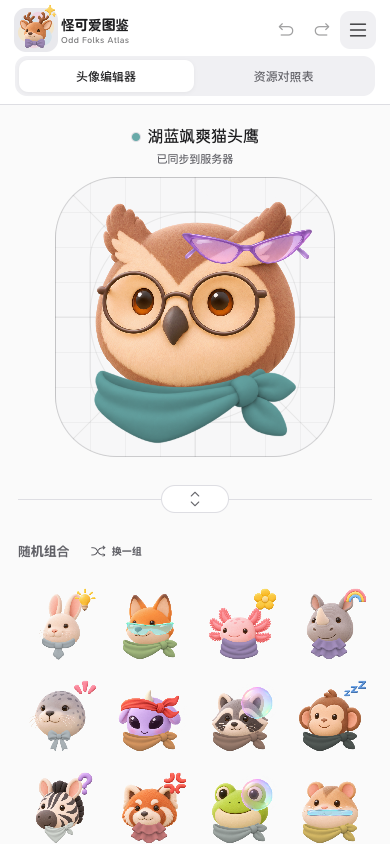
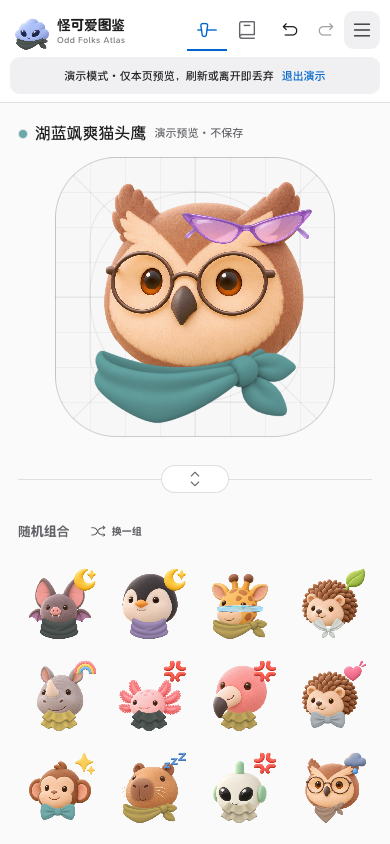
Port compact inspector and responsive workspace layout

diff --git a/dist/editor-compact.js b/dist/editor-compact.js
@@ -1,0 +1,77 @@
+/* Compact presentation only. The original controls own history, validation and saves. */
+(()=>{
+'use strict';
+const $=id=>document.getElementById(id),choices=new Map();let ready=false,refreshing=false;
+function refresh(){
+ if(!ready||refreshing)return;refreshing=true;
+ for(const [select,entry]of choices){
+  const options=[...select.options],signature=options.map(o=>o.value+'\0'+o.textContent+'\0'+o.disabled).join('\n');
+  if(entry.signature!==signature){entry.signature=signature;entry.grid.replaceChildren();for(const option of options){const b=document.createElement('button');b.type='button';b.dataset.choice=option.value;b.dataset.avatarSound='select';b.textContent=option.textContent.replace(/^([A-Z]\d+) /,'').replace(/ · 待调位$/,'').split(' · ')[0];b.title=option.textContent;b.setAttribute('aria-label',option.textContent);b.onclick=()=>{select.value=option.value;select.dispatchEvent(new Event('change',{bubbles:true}));refresh()};entry.grid.append(b)}}
+  const buttons=[...entry.grid.children],selected=buttons.findIndex(b=>b.dataset.choice===select.value),visible=new Set(buttons.slice(0,entry.limit).map(b=>b.dataset.choice));if(selected>=entry.limit){visible.delete(buttons[entry.limit-1]?.dataset.choice);visible.add(select.value)}
+  buttons.forEach((b,index)=>{b.disabled=select.disabled||options[index].disabled;b.setAttribute('aria-pressed',String(b.dataset.choice===select.value));b.hidden=!entry.expanded&&!visible.has(b.dataset.choice)});
+  entry.more.hidden=buttons.length<=entry.limit;entry.more.textContent=entry.expanded?'收起':'全部 '+buttons.length;entry.more.setAttribute('aria-expanded',String(entry.expanded));
+ }
+ refreshing=false;
+}
+function buttonsFor(id,{limit=Infinity,tab=false}={}){
+ const select=$(id);if(!select||choices.has(select))return;const label=select.closest('label'),group=document.createElement('div');group.className='compact-choice-field';group.dataset.select=id;
+ const caption=document.createElement('div');caption.className='compact-choice-caption';const text=document.createElement('span');text.id=id+'ChoicesLabel';text.textContent=label.firstChild?.textContent?.trim()||select.getAttribute('aria-label')||'选择';caption.append(text);
+ const grid=document.createElement('div');grid.className='compact-choices'+(tab?' compact-event-tabs':'');grid.setAttribute('role','group');grid.setAttribute('aria-labelledby',text.id);grid.id=id+'Choices';
+ const more=document.createElement('button');more.className='compact-more';more.type='button';more.setAttribute('aria-controls',grid.id);const entry={grid,more,limit,expanded:false,signature:null};more.onclick=()=>{entry.expanded=!entry.expanded;refresh()};caption.append(more);group.append(caption,grid);
+ label.classList.add('compact-native-choice');label.after(group);if(label.dataset.inspectorLayer)group.dataset.inspectorLayer=label.dataset.inspectorLayer;
+ choices.set(select,entry);new MutationObserver(refresh).observe(select,{childList:true,subtree:true,characterData:true,attributes:true,attributeFilter:['disabled']});
+}
+function stagePreview(host){
+ const stage=$('stageCapture');host.classList.add('compact-stage-preview');host.removeAttribute('role');host.removeAttribute('tabindex');host.setAttribute('aria-hidden','true');stage.append(host);
+ new MutationObserver(()=>{const active=host.hasAttribute('data-motion-event');if(active){for(const other of stage.querySelectorAll('.compact-stage-preview'))if(other!==host)AvatarMotion.stop(other)}stage.classList.toggle('compact-preview-playing',[...stage.querySelectorAll('.compact-stage-preview')].some(p=>p.hasAttribute('data-motion-event')))}).observe(host,{attributes:true,attributeFilter:['data-motion-event']});
+}
+function setup(){
+ if(ready||!window.AvatarInspector||!$('backgroundEvent'))return;ready=true;
+ const panel=$('materialPanel'),body=panel.querySelector('.drawer-body'),tabs=body.querySelector('.tabs');panel.classList.add('compact-inspector');panel.removeAttribute('aria-labelledby');panel.setAttribute('aria-label','编辑图层');
+ const strip=document.createElement('div');strip.className='compact-inspector-tabs';strip.append(tabs,$('panelClose'));panel.prepend(strip);panel.querySelector('.drawer-head').hidden=true;tabs.addEventListener('keydown',event=>{if(!['Home','End'].includes(event.key))return;event.preventDefault();const buttons=[...tabs.querySelectorAll('button[data-layer]')],target=event.key==='Home'?buttons[0]:buttons.at(-1);target.click();target.focus()});
+ const hint=document.createElement('span');hint.id='inspectorGestureHelp';hint.className='sr-only';hint.textContent='滚动到内容边缘后继续向外滑动可收起。也可按 Escape 或使用关闭按钮。';panel.append(hint);panel.setAttribute('aria-describedby',hint.id);
+ for(const id of ['motionPreview','backgroundPreview'])stagePreview($(id));
+ $('stageCapture').addEventListener('pointerdown',()=>{for(const host of $('stageCapture').querySelectorAll('.compact-stage-preview'))AvatarMotion.stop(host)},{capture:true});
+ panel.addEventListener('close',()=>{panel.style.transform='';for(const host of $('stageCapture').querySelectorAll('.compact-stage-preview'))AvatarMotion.stop(host)});
+ const motion=$('motionSection'),advanced=document.createElement('details'),summary=document.createElement('summary');advanced.className='compact-advanced';summary.textContent='时间与更多设置';advanced.append(summary);
+ const styleLabel=$('motionStyle').closest('label'),eventLabel=$('motionEvent').closest('label'),play=motion.querySelector('.motion-actions');
+ motion.insertBefore(styleLabel,play);motion.insertBefore(eventLabel,styleLabel);
+ for(const child of [...motion.children])if(!['motionTitle'].includes(child.id)&&child!==eventLabel&&child!==styleLabel&&child!==play)advanced.append(child);
+ motion.append(advanced);$('motionTitle').classList.add('sr-only');
+ // Keep infrequent numeric/import/export controls, but remove duplicated explanation.
+ motion.querySelectorAll('p.hint').forEach(el=>el.classList.add('sr-only'));
+ const reset=$('resetAsset');advanced.append(reset);delete reset.dataset.inspectorLayer;
+ body.querySelector('.inspector-preview-options summary').textContent='预览与同步设置';
+ for(const id of ['animal','accessory','mood'])buttonsFor(id,{limit:8});
+ for(const id of ['inspectorEmphasis','motionStyle','backgroundEmphasis','previewMode'])buttonsFor(id);
+ for(const id of ['motionEvent','backgroundEvent'])buttonsFor(id,{tab:true});
+ body.addEventListener('change',()=>queueMicrotask(refresh));document.addEventListener('avatar-layer-change',()=>{body.scrollTop=0;refresh()});
+ installSheetGesture(panel,body);const fitStage=()=>{if(panel.open&&matchMedia('(max-width:760px)').matches){const top=$('stageCapture').getBoundingClientRect().top;document.documentElement.style.setProperty('--compact-stage-limit',Math.max(96,panel.getBoundingClientRect().top-top-14)+'px')}};new ResizeObserver(fitStage).observe(panel);window.addEventListener('resize',fitStage);window.AvatarCompactInspector={refresh(){refresh();requestAnimationFrame(fitStage)}};refresh();syncInspectorProperties();
+}
+function installSheetGesture(panel,body){
+ let gesture=null,settle=null,wheelDistance=0,wheelTimer=0,suppressClick=false;
+ const mobile=()=>matchMedia('(max-width:760px)').matches;
+ const reset=()=>{gesture=null;wheelDistance=0;clearTimeout(wheelTimer);settle?.cancel();settle=null;panel.style.transform='';panel.classList.remove('sheet-dragging');};
+ function draw(distance){panel.style.transform=`translateY(${distance}px)`;panel.classList.add('sheet-dragging')}
+ function finish(distance,cancel=false){panel.classList.remove('sheet-dragging');if(!cancel&&Math.abs(distance)>=64){closeInspector(Math.sign(distance));return}if(!distance)return;if(matchMedia('(prefers-reduced-motion:reduce)').matches){panel.style.transform='';return}settle=panel.animate([{transform:`translateY(${distance}px)`},{transform:'translateY(0)'}],{duration:200,easing:'cubic-bezier(.2,.8,.2,1)'});settle.onfinish=()=>{panel.style.transform='';settle=null}}
+ function touchStart(e){if(!mobile()||!panel.open||e.touches.length!==1||e.target.closest('input,select,textarea,[contenteditable="true"]'))return;settle?.cancel();settle=null;panel.style.transform='';const t=e.touches[0];gesture={id:t.identifier,x:t.clientX,y:t.clientY,mode:null,distance:0};}
+ function touchMove(e){if(!gesture)return;if(e.touches.length!==1){finish(gesture.distance,true);gesture=null;return}const t=[...e.touches].find(t=>t.identifier===gesture.id);if(!t)return;const dx=t.clientX-gesture.x,dy=t.clientY-gesture.y;
+  if(!gesture.mode&&Math.abs(dx)>Math.abs(dy)&&Math.abs(dx)>7){gesture=null;return}
+  if(!gesture.mode&&Math.abs(dy)<7)return;
+  const max=Math.max(0,body.scrollHeight-body.clientHeight),atTop=body.scrollTop<=1,atBottom=body.scrollTop>=max-1;
+  if(!gesture.mode){gesture.mode=(dy>0&&atTop)||(dy<0&&atBottom)?'sheet':'scroll';if(gesture.mode==='sheet')gesture.y=t.clientY;}
+  if(gesture.mode==='scroll'){
+   const step=t.clientY-gesture.y;if((step>0&&atTop)||(step<0&&atBottom)){gesture.mode='sheet';gesture.y=t.clientY}else{gesture.y=t.clientY;return;}
+  }
+  if(e.cancelable)e.preventDefault();
+  if(gesture.mode==='sheet'){gesture.distance=(t.clientY-gesture.y)*.82;draw(gesture.distance);if(Math.abs(gesture.distance)>8)suppressClick=true;}
+ }
+ function touchEnd(e,cancel=false){if(!gesture)return;const distance=gesture.distance;gesture=null;finish(distance,cancel);if(suppressClick)setTimeout(()=>{suppressClick=false},350)}
+ panel.addEventListener('touchstart',touchStart,{passive:true});panel.addEventListener('touchmove',touchMove,{passive:false});panel.addEventListener('touchend',e=>touchEnd(e),{passive:true});panel.addEventListener('touchcancel',e=>touchEnd(e,true),{passive:true});
+ panel.addEventListener('click',e=>{if(suppressClick){e.preventDefault();e.stopImmediatePropagation();suppressClick=false}},{capture:true});
+ // Wheel users retain native scrolling. Only continued outward travel at an edge dismisses.
+ body.addEventListener('wheel',e=>{if(!mobile()||!panel.open||e.ctrlKey||e.target.closest('input,select,textarea')||Math.abs(e.deltaX)>Math.abs(e.deltaY))return;const max=Math.max(0,body.scrollHeight-body.clientHeight),out=(e.deltaY<0&&body.scrollTop<=1)||(e.deltaY>0&&body.scrollTop>=max-1);if(!out){if(wheelDistance){const previous=wheelDistance;wheelDistance=0;clearTimeout(wheelTimer);finish(previous,true)}return}e.preventDefault();const delta=e.deltaY*(e.deltaMode===1?16:e.deltaMode===2?body.clientHeight:1);wheelDistance+=-delta*.35;wheelDistance=Math.max(-150,Math.min(150,wheelDistance));draw(wheelDistance);clearTimeout(wheelTimer);wheelTimer=setTimeout(()=>{const d=wheelDistance;wheelDistance=0;finish(d)},130)},{passive:false});
+ panel.addEventListener('close',reset);window.addEventListener('resize',reset);document.addEventListener('visibilitychange',()=>{if(document.hidden)reset()});
+}
+window.addEventListener('avatar-editor-ready',setup);if(document.readyState==='loading')document.addEventListener('DOMContentLoaded',setup,{once:true});if(typeof editorSetupReady!=='undefined'&&editorSetupReady)setup();
+})();

diff --git a/dist/index.html b/dist/index.html
@@ -1,4 +1,4 @@
-<!doctype html><html lang="zh-CN"><head><script src="avatar-demo.js?v=c817ae710e12ef5f7989"></script><meta charset="utf-8"><meta name="viewport" content="width=device-width,initial-scale=1"><meta name="color-scheme" content="light dark"><meta name="description" content="编辑动物头像，调整图层与事件动画，实时预览随机组合。"><title>怪可爱图鉴 · Odd Folks Atlas</title><link rel="stylesheet" href="style.css?v=b4112ae57accfabf8780"><link rel="stylesheet" href="auth-client.css?v=7e4b09ee6d656f85d376"><link rel="stylesheet" href="editor-theme.css?v=8543278548e2aa4eced9"><link rel="stylesheet" href="mobile-interaction.css?v=610cfdcf7f3e9b22e88b"><link rel="stylesheet" href="editor-inspector.css?v=e8e649e45bd9e6890fc1"><link rel="stylesheet" href="background-editor.css?v=347a3cf4e2120e065c87"><link rel="icon" type="image/png" sizes="128x128" href="brand/avatar-fox-128.png?v=fee54a8afeb9750952a8" data-avatar-favicon="fox"><link rel="apple-touch-icon" sizes="180x180" href="brand/apple-touch-icon.png?v=e778472ddb242b7ccdb1"><link rel="stylesheet" href="avatar-sounds.css?v=9e617bc77da2e93f3e7f"><script src="avatar-brand.js?v=dbc58b1924ef7673fb9c" defer></script><script type="module" src="avatar-sounds.js?v=e47eacd6f02b89b58d42"></script><link rel="stylesheet" href="workspace-shell.css?v=70d7f68181a68477043e"><link rel="preload" as="style" href="catalog-component.css?v=29f05cfbb7f85ae08792" data-catalog-component-style><link rel="stylesheet" href="avatar-brand.css?v=416f6e0dff7b109071d4"></head><body class="editor-page">
+<!doctype html><html lang="zh-CN"><head><script src="avatar-demo.js?v=c817ae710e12ef5f7989"></script><meta charset="utf-8"><meta name="viewport" content="width=device-width,initial-scale=1"><meta name="color-scheme" content="light dark"><meta name="description" content="编辑动物头像，调整图层与事件动画，实时预览随机组合。"><title>怪可爱图鉴 · Odd Folks Atlas</title><link rel="stylesheet" href="style.css?v=adb65d598fbdc941cf47"><link rel="stylesheet" href="auth-client.css?v=7e4b09ee6d656f85d376"><link rel="stylesheet" href="editor-theme.css?v=8543278548e2aa4eced9"><link rel="stylesheet" href="mobile-interaction.css?v=610cfdcf7f3e9b22e88b"><link rel="stylesheet" href="editor-inspector.css?v=e8e649e45bd9e6890fc1"><link rel="stylesheet" href="background-editor.css?v=347a3cf4e2120e065c87"><link rel="icon" type="image/png" sizes="128x128" href="brand/avatar-fox-128.png?v=fee54a8afeb9750952a8" data-avatar-favicon="fox"><link rel="apple-touch-icon" sizes="180x180" href="brand/apple-touch-icon.png?v=e778472ddb242b7ccdb1"><link rel="stylesheet" href="avatar-sounds.css?v=9e617bc77da2e93f3e7f"><script src="avatar-brand.js?v=dbc58b1924ef7673fb9c" defer></script><script type="module" src="avatar-sounds.js?v=e47eacd6f02b89b58d42"></script><link rel="stylesheet" href="workspace-shell.css?v=70d7f68181a68477043e"><link rel="preload" as="style" href="catalog-component.css?v=29f05cfbb7f85ae08792" data-catalog-component-style><link rel="stylesheet" href="avatar-brand.css?v=416f6e0dff7b109071d4"><link rel="stylesheet" href="editor-compact.css?v=609d12a50606cc39c3b0"></head><body class="editor-page">
 <header><h1><span class="avatar-brand-copy"><span>怪可爱图鉴</span><small lang="en">Odd Folks Atlas</small></span></h1><nav aria-label="编辑器操作"><button id="undo" aria-label="撤销 (⌘/Ctrl Z)" title="撤销 (⌘/Ctrl Z)" disabled><svg class="icon" aria-hidden="true" focusable="false" data-iconoir="undo" width="24" height="24" viewBox="0 0 24 24" stroke-width="1.5" fill="none" xmlns="http://www.w3.org/2000/svg">
 <path d="M4.5 8C8.5 8 11 8 15 8C15 8 15 8 15 8C15 8 20 8 20 12.7059C20 18 15 18 15 18C11.5714 18 9.71429 18 6.28571 18" stroke="currentColor" stroke-linecap="round" stroke-linejoin="round"/>
 <path d="M7.5 11.5C6.13317 10.1332 5.36683 9.36683 4 8C5.36683 6.63317 6.13317 5.86683 7.5 4.5" stroke="currentColor" stroke-linecap="round" stroke-linejoin="round"/>
@@ -45,4 +45,4 @@
 </svg><span>播放点击</span></button></div><label>编辑事件<select id="motionEvent"><option value="entrance">入场</option><option value="click">点击反馈</option></select></label><label class="motion-check"><input id="motionEnabled" type="checkbox">启用该事件动画</label><div class="field-grid"><label>动作<select id="motionStyle"><option value="pop">轻弹出现</option><option value="bounce">向上轻跳</option><option value="tilt">摇一摇</option><option value="fade">柔和渐显</option></select></label><label>时长（毫秒）<input id="motionDuration" type="number" min="100" max="1500" step="10"></label><label>图层间隔（毫秒）<input id="motionStagger" type="number" min="0" max="300" step="10"></label><label>动作强度<input id="motionStrength" type="number" min="0" max="2" step="0.1"></label></div><label class="motion-check"><input id="moodEnabled" type="checkbox">事件时显示情绪</label><div class="field-grid"><label>情绪延迟（毫秒）<input id="moodDelay" type="number" min="0" max="1500" step="10"></label><label>停留（毫秒）<input id="moodHold" type="number" min="100" max="3000" step="50"></label><label>进出各时长（毫秒）<input id="moodDuration" type="number" min="100" max="1000" step="10"></label></div><p class="hint">遵循系统减少动态效果设置。下方调位画布会始终显示情绪，方便编辑位置。</p><div class="motion-actions"><button id="exportMotion">导出动画 JSON</button><label class="motion-file">导入 JSON<input id="importMotion" type="file" accept="application/json,.json"></label><button id="resetMotion">恢复默认动画</button></div></section><div id="migrationNotice" class="notice" hidden></div><div class="field-grid"><label>预览范围<select id="previewMode"><option value="all">全部素材</option><option value="active">已启用素材</option></select></label><label>动物<select id="animal"></select></label><label>颈部配饰<select id="accessory"></select></label><label>情绪与描述<select id="mood"></select></label><label hidden>圆润背景<select id="shape"></select></label><label hidden>配色方式<select id="scheme"><option value="contrast">柔和撞色</option><option value="complement">互补配色</option></select></label><label>基础颜色<select id="color"></select></label><label>词序<select id="wordOrder"></select></label></div><div class="tabs" role="tablist" aria-label="选择调整图层"><button data-layer="head" role="tab">动物头</button><button data-layer="accessory" role="tab">配饰</button><button data-layer="mood" role="tab">情绪</button></div><p id="assetLabel"></p><div class="sliders"><label><span>水平位置<input id="xNumber" type="number" min="-1024" max="1024" step="1" aria-label="水平位置像素"></span><input id="x" type="range" min="-1024" max="1024" step="1" aria-label="水平位置"></label><label><span>垂直位置<input id="yNumber" type="number" min="-1024" max="1024" step="1" aria-label="垂直位置像素"></span><input id="y" type="range" min="-1024" max="1024" step="1" aria-label="垂直位置"></label><label><span>大小（%）<input id="scaleNumber" type="number" min="20" max="250" step="1" aria-label="大小百分比"></span><input id="scale" type="range" min="0.2" max="2.5" step="0.01" aria-label="大小"></label><label><span>旋转（°）<input id="rotationNumber" type="number" min="-180" max="180" step="1" aria-label="旋转角度"></span><input id="rotation" type="range" min="-180" max="180" step="1" aria-label="旋转"></label></div><button id="resetAsset" class="text-button">重置当前素材</button><p class="hint">拖动调位，四边缩放，圆点旋转。参数应用于所有组合。</p><div class="uid-controls"><label>预览种子<input id="uid" type="text" maxlength="64" aria-label="预览种子"></label><button id="applyUid">生成</button><button id="download"><svg class="icon" aria-hidden="true" focusable="false" data-iconoir="download" width="24" height="24" stroke-width="1.5" viewBox="0 0 24 24" fill="none" xmlns="http://www.w3.org/2000/svg">
 <path d="M6 20L18 20" stroke="currentColor" stroke-linecap="round" stroke-linejoin="round"/>
 <path d="M12 4V16M12 16L15.5 12.5M12 16L8.5 12.5" stroke="currentColor" stroke-linecap="round" stroke-linejoin="round"/>
-</svg><span>下载 PNG</span></button></div><p class="hint" id="uidLabel"></p><p class="hint" id="storageHint"></p><div class="server-actions"><a hidden id="adminLogin" href="#" target="_blank" rel="noopener">管理员登录</a><button id="connectAdmin">重新连接</button><button id="reloadServer">读取服务端版本</button></div></div></dialog><div id="toast" role="status"></div><script src="avatar-identity-v3.js?v=d8453e7b098797976c1a"></script><script src="avatar-character-candidates.js?v=983aedf6244adcefed4c"></script><script src="avatar-editor-manifest.js?v=6fdd211c211fb8936f1c"></script><script src="avatar-recipes-v3.js?v=ac1bee8e8fd8da919e87"></script><script src="model.js?v=f995994aa0919a21496d"></script><script src="avatar-background.js?v=1c907769dc1aa8b90bcb"></script><script src="avatar-motion.js?v=36a4c6bdce96ab955f41"></script><script src="editor-inspector.js?v=37e48356b86f19ffb04e"></script><script src="avatar-calibration-priority.js?v=2e860a70eb3b81ecf793"></script><script src="app.js?v=086fec02c89e759c3148"></script><script src="background-editor.js?v=b950650af3ea13e8ec61"></script><script src="workspace-resize.js?v=6721779baf5439050de9"></script><script src="workspace-shell.js?v=9c8ed5d6c61cf8c00f9c"></script><script src="auth-client.js?v=6459b19f95c675307e9f"></script></body></html>
+</svg><span>下载 PNG</span></button></div><p class="hint" id="uidLabel"></p><p class="hint" id="storageHint"></p><div class="server-actions"><a hidden id="adminLogin" href="#" target="_blank" rel="noopener">管理员登录</a><button id="connectAdmin">重新连接</button><button id="reloadServer">读取服务端版本</button></div></div></dialog><div id="toast" role="status"></div><script src="avatar-identity-v3.js?v=d8453e7b098797976c1a"></script><script src="avatar-character-candidates.js?v=983aedf6244adcefed4c"></script><script src="avatar-editor-manifest.js?v=6fdd211c211fb8936f1c"></script><script src="avatar-recipes-v3.js?v=ac1bee8e8fd8da919e87"></script><script src="model.js?v=f995994aa0919a21496d"></script><script src="avatar-background.js?v=1c907769dc1aa8b90bcb"></script><script src="avatar-motion.js?v=36a4c6bdce96ab955f41"></script><script src="editor-inspector.js?v=a29802edf79277217fc6"></script><script src="avatar-calibration-priority.js?v=2e860a70eb3b81ecf793"></script><script src="app.js?v=05808258f7967ec05372"></script><script src="background-editor.js?v=8aa02ffe345b1d0ab3d1"></script><script src="workspace-resize.js?v=6721779baf5439050de9"></script><script src="workspace-shell.js?v=8ce88bc42b07381575b7"></script><script src="auth-client.js?v=6459b19f95c675307e9f"></script><script src="editor-compact.js?v=3c1ca8dcb3526bf9bf72"></script></body></html>

diff --git a/dist/editor-compact.css b/dist/editor-compact.css
@@ -1,0 +1,78 @@
+/* Compact, nonmodal inspector. Content scrolls; canvas stays interactive. */
+body.editor-page #materialPanel.compact-inspector{display:none;width:384px;flex-basis:384px;height:min(670px,calc(100dvh - 150px));max-height:670px;overflow:hidden;border-radius:18px;flex-direction:column}
+body.editor-page #materialPanel.compact-inspector[open]{display:flex}
+#materialPanel.compact-inspector .drawer-head{display:none}
+#materialPanel.compact-inspector .drawer-body{overflow-y:auto;overflow-x:hidden;min-height:0;padding:2px 14px 12px;overscroll-behavior:contain;scrollbar-width:thin;scroll-padding-block:8px}
+.compact-inspector-tabs{display:flex;align-items:center;gap:6px;padding:0 8px 0 14px;border-bottom:1px solid var(--line);flex:none;background:var(--panel)}
+#materialPanel .compact-inspector-tabs .tabs{display:flex;flex:1;margin:0;padding:0;gap:12px;background:transparent;border-radius:0;min-width:0}
+#materialPanel .compact-inspector-tabs .tabs button{position:relative;min-height:42px;padding:8px 1px;background:transparent;box-shadow:none;border-radius:0;font-size:12px;border:0;border-bottom:2px solid transparent}
+#materialPanel .compact-inspector-tabs .tabs button.on{color:var(--accent);border-bottom-color:var(--accent)}
+#materialPanel.compact-inspector #panelClose{width:32px;min-height:36px;padding:7px;background:transparent;color:var(--muted);flex:none;border:0}
+#materialPanel.compact-inspector #assetLabel,#materialPanel.compact-inspector .direct-edit-hint{display:none}
+#materialPanel .compact-native-choice{display:none!important}
+.compact-choice-field{margin:9px 0}
+.compact-choice-caption{display:flex;justify-content:space-between;align-items:center;font-size:11px;color:var(--muted);min-height:18px;margin-bottom:5px}
+#materialPanel .compact-more{padding:0 3px;min-height:24px;border:0;background:transparent;color:var(--accent);font-size:11px}
+.compact-choices{display:grid;grid-template-columns:repeat(4,minmax(0,1fr));gap:5px}
+#materialPanel .compact-choices button{padding:6px 3px;min-height:34px;border-radius:8px;font-size:11px;line-height:1.3;background:var(--soft);color:var(--ink);border:1px solid transparent;min-width:0;white-space:nowrap;overflow:hidden;text-overflow:ellipsis;box-shadow:none}
+#materialPanel .compact-choices button[aria-pressed=true]{border-color:var(--accent);color:var(--accent);background:color-mix(in srgb,var(--accent) 8%,var(--panel))}
+#materialPanel .compact-choices button[hidden],#materialPanel .compact-more[hidden]{display:none}
+#materialPanel .compact-event-tabs{grid-template-columns:repeat(2,minmax(0,1fr));gap:12px;border-bottom:1px solid var(--line)}
+#materialPanel .compact-event-tabs button{min-height:34px;padding:6px 4px;border:0;border-bottom:2px solid transparent;border-radius:0;background:transparent;color:var(--muted)}
+#materialPanel .compact-event-tabs button[aria-pressed=true]{border-bottom-color:var(--accent);background:transparent;color:var(--accent)}
+.compact-choice-field:has(.compact-event-tabs)>.compact-choice-caption{display:none}
+#materialPanel.compact-inspector .motion-section{border:0;padding:0;margin:8px 0}
+#materialPanel.compact-inspector .motion-actions{margin:8px 0;gap:6px}
+#materialPanel.compact-inspector .motion-actions button{min-height:32px;font-size:11px;padding:5px 8px}
+#materialPanel.compact-inspector .motion-actions:first-of-type button{flex:1}
+#materialPanel.compact-inspector .motion-actions .icon{width:15px;height:15px}
+#materialPanel.compact-inspector .compact-advanced,#materialPanel.compact-inspector .inspector-preview-options{border-top:1px solid var(--line);margin:8px 0 0;padding:0}
+#materialPanel.compact-inspector summary{min-height:32px;box-sizing:border-box;padding:8px 0;font-size:11px;line-height:16px}
+#materialPanel.compact-inspector .field-grid{gap:8px;margin-top:8px}
+#materialPanel.compact-inspector .motion-check{margin:9px 0}
+#materialPanel.compact-inspector .hint{font-size:11px;margin:5px 0}
+#materialPanel.compact-inspector #inspectorRetry{min-height:28px;padding:4px 8px;font-size:11px}
+#materialPanel.compact-inspector .background-intro{display:none}
+#materialPanel.compact-inspector .background-play-actions{margin:8px 0}
+#materialPanel.compact-inspector .background-play-actions button{min-height:32px;font-size:11px}
+#materialPanel.compact-inspector .background-shapes{grid-template-columns:repeat(4,minmax(0,1fr));gap:5px;margin:8px 0}
+#materialPanel.compact-inspector .background-shapes button{min-height:32px;padding:5px 2px;font-size:11px}
+#materialPanel.compact-inspector .background-palettes{margin:8px 0 4px;gap:5px}
+#materialPanel.compact-inspector .background-palettes button{padding:6px;min-height:30px}
+#materialPanel.compact-inspector .background-colors{margin:4px 0 8px}
+#materialPanel.compact-inspector .background-field{margin:8px 0;gap:4px;font-size:11px}
+#materialPanel.compact-inspector #logoutSession{margin:8px 0 0;padding:7px 8px;min-height:34px;font-size:11px}
+#stageCapture .compact-stage-preview{display:none;position:absolute;inset:0;width:100%;height:100%;margin:0;border-radius:0;background:transparent;pointer-events:none;z-index:3}
+#stageCapture .compact-stage-preview[data-motion-event]{display:block}
+#stageCapture.compact-preview-playing>#mainCanvas,#stageCapture.compact-preview-playing>#selection{opacity:0}
+/* Main workspace tabs use the same restrained underline vocabulary. */
+body.workspace-shell .workspace-main-tabs{padding:0;gap:20px;background:transparent;border-radius:0;border-bottom:1px solid var(--line)}
+body.workspace-shell .workspace-main-tabs button{padding:7px 4px;min-height:36px;border-radius:0;border-bottom:2px solid transparent;background:transparent;box-shadow:none}
+body.workspace-shell .workspace-main-tabs button[aria-selected=true]{color:var(--accent);border-bottom-color:var(--accent);background:transparent;box-shadow:none}
+@media(max-width:760px){
+ body.editor-page #materialPanel.compact-inspector{position:fixed;inset:auto 8px max(8px,env(safe-area-inset-bottom));width:auto;max-width:none;height:min(54dvh,520px);max-height:min(54dvh,520px);margin:0;flex:none;z-index:8;box-shadow:0 -6px 30px #00000016;border-radius:18px;will-change:transform}
+ body.inspector-open main{padding-bottom:calc(54dvh + 24px)}
+ body.inspector-open .editor-stage-column .stage{width:min(var(--workspace-size,240px),var(--compact-stage-limit,max(120px,calc(46dvh - 190px))),calc(100vw - 80px));min-width:0;min-height:0;height:auto}
+ body.inspector-open #editorWorkspace{z-index:8}
+ #materialPanel.compact-inspector .drawer-body{padding-inline:12px;-webkit-overflow-scrolling:touch}
+ #materialPanel.compact-inspector .compact-inspector-tabs{padding-inline:12px 6px}
+ #materialPanel .compact-choices button{min-height:36px}
+ #materialPanel.compact-inspector input[type=number],#materialPanel.compact-inspector input[type=text]{font-size:16px}
+ #materialPanel.sheet-dragging{user-select:none;transition:none!important}
+ #toast{bottom:calc(54dvh + 20px)}
+}
+@media(prefers-reduced-motion:reduce){#materialPanel.compact-inspector{will-change:auto}}
+@media(max-width:760px) and (max-height:660px){body.editor-page #materialPanel.compact-inspector{height:max(200px,calc(100dvh - 330px));max-height:max(200px,calc(100dvh - 330px))}}
+body.workspace-shell[data-focus-input=pointer] #materialPanel button:focus{outline:none}
+
+/* Both workspace switches stay in the top bar, with full accessible names. */
+body.workspace-shell>header,body.workspace-shell>header.avatar-auth-header{grid-template-columns:minmax(0,1fr) auto auto;gap:12px;min-height:64px;padding:10px 20px}
+body.workspace-shell>header h1,body.workspace-shell>header.avatar-auth-header h1{grid-column:1;grid-row:1;min-width:0}
+body.workspace-shell>header .workspace-main-tabs{grid-column:2;grid-row:1;width:auto;max-width:none;gap:4px;border:0;justify-self:end}
+body.workspace-shell>header .workspace-main-tabs button{display:grid;place-items:center;flex:none;width:42px;min-height:42px;padding:9px 8px 7px;position:relative;border-bottom:2px solid transparent}
+body.workspace-shell>header .workspace-main-tabs button[aria-selected=true]{border-bottom-color:var(--accent)}
+body.workspace-shell>header .workspace-main-tabs button:hover{background:var(--soft)}
+.workspace-tab-icon{width:22px;height:22px;display:block;background:currentColor;-webkit-mask:var(--workspace-tab-icon) center/contain no-repeat;mask:var(--workspace-tab-icon) center/contain no-repeat}
+body.workspace-shell>header nav,body.workspace-shell>header.avatar-auth-header nav{grid-column:3;grid-row:1;width:auto;gap:3px;justify-self:end}
+@media(max-width:650px){body.workspace-shell>header,body.workspace-shell>header.avatar-auth-header{padding:8px 10px;gap:5px;min-height:60px}body.workspace-shell>header .workspace-main-tabs{gap:0}body.workspace-shell>header .workspace-main-tabs button{width:40px;min-height:42px;padding-inline:8px}body.workspace-shell>header nav,body.workspace-shell>header.avatar-auth-header nav{gap:0}}
+@media(max-width:360px){body.workspace-shell>header .avatar-brand-copy small{display:none}body.workspace-shell>header h1{font-size:12px}}

diff --git a/dist/editor-inspector.js b/dist/editor-inspector.js
@@ -28,10 +28,10 @@ function setupInspectorLayout(){
  window.AvatarInspector={selectLayer(layer){if(!['head','accessory','mood','background'].includes(layer))return;activeLayer=layer;selected=true;syncControls();playSelectionFeedback(layer)},refresh:syncInspectorProperties,open:openInspector,close:closeInspector,get activeLayer(){return activeLayer},get stage(){return $('stageCapture')},renderPreview:host=>renderMotionPreview(host)};
 }
 let inspectorTransition=null;
-function openInspector(focus=true){const panel=$('materialPanel'),wasOpen=panel.open;inspectorTransition?.cancel();inspectorTransition=null;if(!wasOpen)panel.show();document.body.classList.add('inspector-open');$('panelToggle').setAttribute('aria-expanded','true');syncInspectorProperties();if(!wasOpen&&!matchMedia('(prefers-reduced-motion: reduce)').matches)panel.animate([{opacity:0,transform:'translateY(8px)'},{opacity:1,transform:'translateY(0)'}],{duration:180,easing:'ease-out'});if(focus)panel.querySelector(`[data-layer="${activeLayer}"]`)?.focus({preventScroll:true});}
-function closeInspector(){const panel=$('materialPanel');if(!panel.open||inspectorTransition)return;if(matchMedia('(prefers-reduced-motion: reduce)').matches){panel.close();return}inspectorTransition=panel.animate([{opacity:1,transform:'translateY(0)'},{opacity:0,transform:'translateY(6px)'}],{duration:140,easing:'ease-in'});inspectorTransition.finished.then(()=>{inspectorTransition=null;panel.close()},()=>{});}
+function openInspector(focus=true){const panel=$('materialPanel'),wasOpen=panel.open;inspectorTransition?.cancel();inspectorTransition=null;panel.style.transform='';if(!wasOpen)panel.show();document.body.classList.add('inspector-open');$('panelToggle').setAttribute('aria-expanded','true');syncInspectorProperties();if(!wasOpen&&!matchMedia('(prefers-reduced-motion: reduce)').matches)panel.animate([{opacity:0,transform:'translateY(8px)'},{opacity:1,transform:'translateY(0)'}],{duration:180,easing:'ease-out'});window.AvatarCompactInspector?.refresh();if(focus)panel.querySelector(`[data-layer="${activeLayer}"]`)?.focus({preventScroll:true});}
+function closeInspector(direction=1){const panel=$('materialPanel');if(!panel.open||inspectorTransition)return;if(matchMedia('(prefers-reduced-motion: reduce)').matches){panel.close();return}inspectorTransition=panel.animate([{opacity:1,transform:getComputedStyle(panel).transform==='none'?'translateY(0)':getComputedStyle(panel).transform},{opacity:0,transform:`translateY(${direction*(matchMedia('(max-width:760px)').matches?Math.min(innerHeight*.6,520):18)}px)`}],{duration:140,easing:'ease-in'});inspectorTransition.finished.then(()=>{inspectorTransition=null;panel.style.transform='';panel.close()},()=>{});}
 let inspectorLastLayer=null;
-function syncInspectorProperties(){const panel=$('materialPanel');if(!$('layerProperties'))return;panel.querySelectorAll('[data-inspector-layer]').forEach(el=>el.hidden=!el.dataset.inspectorLayer.split(' ').includes(activeLayer));document.querySelectorAll('.tabs [data-layer]').forEach(el=>{el.tabIndex=el.dataset.layer===activeLayer?0:-1;el.setAttribute('aria-controls','layerProperties')});if(activeLayer==='background')$('assetLabel').textContent='背景 · 装饰动画';const emphasis=$('inspectorEmphasis');if(emphasis&&document.activeElement!==emphasis)emphasis.value=AvatarMotion.emphasisFor(motionConfig(),assetId(state,'mood'));syncEmphasisStatus();if(inspectorLastLayer!==activeLayer){inspectorLastLayer=activeLayer;document.dispatchEvent(new CustomEvent('avatar-layer-change',{detail:{layer:activeLayer}}));}}
+function syncInspectorProperties(){const panel=$('materialPanel');if(!$('layerProperties'))return;panel.querySelectorAll('[data-inspector-layer]').forEach(el=>el.hidden=!el.dataset.inspectorLayer.split(' ').includes(activeLayer));document.querySelectorAll('.tabs [data-layer]').forEach(el=>{el.tabIndex=el.dataset.layer===activeLayer?0:-1;el.setAttribute('aria-controls','layerProperties')});if(activeLayer==='background')$('assetLabel').textContent='背景 · 装饰动画';const emphasis=$('inspectorEmphasis');if(emphasis&&document.activeElement!==emphasis)emphasis.value=AvatarMotion.emphasisFor(motionConfig(),assetId(state,'mood'));syncEmphasisStatus();window.AvatarCompactInspector?.refresh();if(inspectorLastLayer!==activeLayer){inspectorLastLayer=activeLayer;document.dispatchEvent(new CustomEvent('avatar-layer-change',{detail:{layer:activeLayer}}));}}
 let selectionFeedback=null,selectionFeedbackFrame=0;
 function cancelSelectionFeedback(){if(selectionFeedbackFrame)cancelAnimationFrame(selectionFeedbackFrame);selectionFeedbackFrame=0;const was=selectionFeedback;selectionFeedback=null;if(was)render($('mainCanvas'),state);}
 function playSelectionFeedback(layer=activeLayer){cancelSelectionFeedback();if(drag||layer==='background'||matchMedia('(prefers-reduced-motion: reduce)').matches)return;const start=performance.now();selectionFeedback={layer,scale:1};const tick=now=>{if(drag||activeLayer!==layer||matchMedia('(prefers-reduced-motion: reduce)').matches){cancelSelectionFeedback();return}const t=Math.min(1,(now-start)/360);selectionFeedback.scale=1+.09*Math.sin(t*Math.PI*2)*Math.pow(1-t,1.5);render($('mainCanvas'),state);if(t<1)selectionFeedbackFrame=requestAnimationFrame(tick);else cancelSelectionFeedback()};selectionFeedbackFrame=requestAnimationFrame(tick);}

diff --git a/dist/style.css b/dist/style.css
@@ -16,11 +16,12 @@ header nav #panelToggle{background:var(--soft)}
 main{max-width:940px;margin:auto;padding:22px 28px 40px}
 .orbit{position:relative;display:grid;grid-template-columns:repeat(6,minmax(0,1fr));gap:8px 18px;align-content:start;overflow-anchor:none}
 .focus-avatar{position:relative;grid-column:1/-1;grid-row:1;width:100%;min-width:0;display:flex;flex-direction:column;align-items:center;padding:0 0 12px;z-index:2}
-.avatar-caption{min-height:52px;width:100%;text-align:center;padding:0 0 10px}
+.avatar-caption{display:flex;align-items:center;justify-content:flex-start;gap:10px;min-height:36px;width:100%;text-align:left;padding:0 0 12px}
+.avatar-caption>span{flex:0 1 auto;min-width:0;overflow:hidden;text-overflow:ellipsis;white-space:nowrap}
 .avatar-name{display:block;font-size:17px;color:var(--ink);line-height:1.5}
 .avatar-name::before{content:'';display:inline-block;width:8px;height:8px;border-radius:50%;background:var(--avatar-color);border:1px solid var(--line);margin-right:7px}
-#saved{display:block;color:var(--muted);font-size:11px;margin-top:3px}#saved[data-status=pending]{color:var(--accent)}#saved[data-status=offline],#saved[data-status=conflict]{color:var(--warning)}
-#assetState{display:block;text-align:center;font-size:11px;margin:2px 0 0}#assetState:empty{display:none}
+#saved{display:block;color:var(--muted);font-size:11px;margin:0}#saved[data-status=pending]{color:var(--accent)}#saved[data-status=offline],#saved[data-status=conflict]{color:var(--warning)}
+#assetState{display:block;text-align:left;font-size:11px;margin:0}#assetState:empty{display:none}
 .stage{position:relative;isolation:isolate;width:var(--workspace-size,min(360px,100%));height:var(--workspace-size,auto);aspect-ratio:1;flex:none}
 .stage canvas{width:100%;height:100%;display:block;touch-action:none;cursor:grab;border-radius:14px}
 .stage canvas:active{cursor:grabbing}.stage:has(#selection:not([hidden])) canvas:focus-visible{outline:none}
@@ -59,7 +60,7 @@ input,select{font-size:16px;background:var(--input);color:var(--ink);border:1px 
 .motion-actions{display:flex;gap:8px;flex-wrap:wrap;margin:16px 0}.motion-actions button{font-size:12px;padding:8px 12px}.motion-check{display:flex!important;align-items:center;gap:9px;margin:18px 0}.motion-check input{width:18px;height:18px;min-height:18px;accent-color:var(--accent)}.motion-file{display:flex;flex-direction:column;align-items:start;gap:5px;font-size:12px;width:100%}.motion-file input{width:100%;max-width:100%;font-size:12px;padding:8px}#motionSection input[type=number]{width:100%;box-sizing:border-box;font-size:16px}.motion-section .field-grid{margin-top:12px}#motionEvent{font-size:16px}
 @keyframes drawer-in{from{opacity:.8;transform:translateX(16px)}to{opacity:1;transform:translateX(0)}}
 @media(hover:hover) and (pointer:fine){button:not(:disabled):not(.handle):hover{background:var(--hover)}.tile:hover{background:var(--soft)}#workspaceResize:hover .resize-grip{background:var(--soft);color:var(--ink)}#saveButton:not(:disabled):hover{background:var(--accent-hover)}}
-@media(max-width:650px){header{padding:10px 14px;gap:8px}h1{font-size:16px}header nav{gap:2px}header nav button{font-size:12px;padding:8px 10px}#redo{margin-right:auto}main{padding:18px 18px 32px}.orbit{grid-template-columns:repeat(4,minmax(0,1fr));gap:8px 6px}.avatar-name{font-size:16px}.avatar-caption{min-height:52px}.gallery-heading{gap:8px}.gallery-heading span{font-size:10px}.tile{height:84px}.tile canvas{width:76px;height:76px}.resize{width:24px;height:16px}.resize.w,.resize.e{width:16px;height:24px}.rotate{width:30px;height:30px}.drawer-body{padding:20px}.drawer-head{padding:16px 20px}}
+@media(max-width:650px){header{padding:10px 14px;gap:8px}h1{font-size:16px}header nav{gap:2px}header nav button{font-size:12px;padding:8px 10px}#redo{margin-right:auto}main{padding:18px 18px 32px}.orbit{grid-template-columns:repeat(4,minmax(0,1fr));gap:8px 6px}.avatar-name{font-size:16px}.avatar-caption{min-height:36px;gap:8px}.gallery-heading{gap:8px}.gallery-heading span{font-size:10px}.tile{height:84px}.tile canvas{width:76px;height:76px}.resize{width:24px;height:16px}.resize.w,.resize.e{width:16px;height:24px}.rotate{width:30px;height:30px}.drawer-body{padding:20px}.drawer-head{padding:16px 20px}}
 @media(max-width:360px){main{padding:16px 12px 28px}.tile canvas{width:64px;height:64px}.tile{height:76px}.gallery-heading span{font-size:9px}.drawer-body{padding:16px}}
 @media(prefers-reduced-motion:reduce){*,*::before,*::after{animation:none!important;transition:none!important;scroll-behavior:auto!important}button:active:not(:disabled){transform:none}.handle:active,.handle:active:focus-visible{transform:translate(-50%,-50%)}}
 

diff --git a/dist/workspace-shell.js b/dist/workspace-shell.js
@@ -10,7 +10,7 @@ function setup(){
  if(!header||!editor)return;
  body.classList.add('workspace-shell');editor.id='workspaceEditorView';editor.setAttribute('role','tabpanel');editor.setAttribute('aria-labelledby','workspaceEditorTab');
  const tabs=document.createElement('div');tabs.id='workspaceMainTabs';tabs.className='workspace-main-tabs';tabs.setAttribute('role','tablist');tabs.setAttribute('aria-label','头像工作区');
- for(const [id,label,panel]of [['editor','头像编辑器','workspaceEditorView'],['resources','资源对照表','workspaceResourcesView']]){const b=document.createElement('button');b.id=id==='editor'?'workspaceEditorTab':'workspaceResourcesTab';b.type='button';b.dataset.workspaceTab=id;b.setAttribute('role','tab');b.setAttribute('aria-controls',panel);b.textContent=label;b.onclick=()=>switchView(id,{history:true});tabs.append(b);tabButtons.push(b)}
+ for(const [id,label,panel]of [['editor','头像编辑器','workspaceEditorView'],['resources','资源对照表','workspaceResourcesView']]){const b=document.createElement('button');b.id=id==='editor'?'workspaceEditorTab':'workspaceResourcesTab';b.type='button';b.dataset.workspaceTab=id;b.setAttribute('role','tab');b.setAttribute('aria-controls',panel);b.setAttribute('aria-label',label);b.title=label;const icon=document.createElement('span');icon.className='workspace-tab-icon';icon.setAttribute('aria-hidden','true');icon.style.setProperty('--workspace-tab-icon',`url(icons/${id==='editor'?'control-slider':'book'}.svg)`);const name=document.createElement('span');name.className='sr-only';name.textContent=label;b.append(icon,name);b.onclick=()=>switchView(id,{history:true});tabs.append(b);tabButtons.push(b)}
  header.insertBefore(tabs,nav);nav.querySelector('.catalog-entry')?.remove();document.getElementById('motionOpen').hidden=true;
  const resources=document.createElement('section');resources.id='workspaceResourcesView';resources.className='workspace-resources-view';resources.hidden=true;resources.setAttribute('role','tabpanel');resources.setAttribute('aria-labelledby','workspaceResourcesTab');
  const loading=document.createElement('p');loading.className='workspace-resource-status';loading.id='workspaceResourceStatus';loading.textContent='正在打开资源对照表…';loading.setAttribute('role','status');resources.append(loading);editor.after(resources);

diff --git a/dist/background-editor.js b/dist/background-editor.js
@@ -14,7 +14,7 @@ function refresh(){
  $('backgroundEvent').value=eventName;$('backgroundEmphasis').value=value.emphasis;$('backgroundOpacity').value=value.opacity;$('backgroundEnabled').checked=value[eventName].enabled;
  for(const key of ['delay','enter','hold','exit'])if(document.activeElement!==$('background-'+key))$('background-'+key).value=value[eventName][key];
  const colors=$('backgroundCustomColors');if(!colors.contains(document.activeElement)){colors.replaceChildren();value.colors.forEach((color,index)=>{const label=document.createElement('label');label.title='背景颜色 '+(index+1);const input=document.createElement('input');input.type='color';input.value=color;input.setAttribute('aria-label',label.title);input.onchange=()=>change(next=>{next.colors[index]=input.value});label.append(input);colors.append(label);});}
- renderMotionPreview(previewHost);AvatarMotion.configure(previewHost,motionConfig(),value);status();
+ renderMotionPreview(previewHost);AvatarMotion.configure(previewHost,motionConfig(),value);status();window.AvatarCompactInspector?.refresh();
 }
 function preview(event=eventName){
  if(!ready)return;renderMotionPreview(previewHost);const motion=motionConfig();motion[event].enabled=true;AvatarMotion.configure(previewHost,motion,config());AvatarMotion.play(previewHost,event);

diff --git a/dist/app.js b/dist/app.js
@@ -186,7 +186,7 @@ function syncMotionControls(){
  for(const [id,path]of [['motionEnabled','enabled'],['motionStyle','style'],['motionDuration','duration'],['motionStagger','stagger'],['motionStrength','strength'],['moodEnabled','mood.enabled'],['moodDelay','mood.delay'],['moodHold','mood.hold'],['moodDuration','mood.duration']]){
   const el=$(id),v=path.split('.').reduce((o,key)=>o[key],value);if(document.activeElement!==el){if(el.type==='checkbox')el.checked=v;else el.value=v;}
  }
- AvatarMotion.configure($('motionPreview'),motionConfig(),backgroundConfig());
+ AvatarMotion.configure($('motionPreview'),motionConfig(),backgroundConfig());window.AvatarCompactInspector?.refresh();
 }
 function renderMotionPreview(host=$('motionPreview')){
  if(!host)return;host.dataset.avatarMoodId=assetId(state,'mood');

diff --git a/README.md b/README.md
@@ -21,7 +21,7 @@
 
 ![资源对照表：素材缩略图、名称、稳定标识和状态](docs/screenshots/catalog-desktop.png)
 
-<img src="docs/screenshots/demo-mobile.png" width="390" alt="本页演示，不保存配置">
+<img src="docs/screenshots/compact-mobile.png" width="390" alt="本页演示，不保存配置">
 
 <img src="docs/screenshots/keypad-mobile.png" width="390" alt="带填充扩散反馈的六位数字键盘">
 
@@ -34,6 +34,7 @@
 - **探索组合**：随机生成一组头像、预览种子和中文名称、下载 PNG。
 - **让头像动起来**：配置入场、点击、情绪强调与背景动效；尊重浏览器的减少动态效果设置。
 - **整理素材**：资源对照表、颜色和名称、组合规则、受校验的 PNG 上传。上传先进入待校准状态，不会自动加入可用组合。
+- **紧凑编辑面板**：图层和常用选项直接点选，动画在主头像中预览。手机面板滚动到边缘后继续滑动可收起；关闭按钮与 Escape 同样可用，数字参数保留在更多设置中。
 - **放心试一试**：打开自己实例的 `/?demo=1`，复制当前公开配置到本页内存。调位、名称、配色和规则修改都不上传、不保存，刷新或离开即丢弃。配置了登录的实例会在服务器确认六位密码不匹配后进入此演示；正确密码仍正常登录，限速锁定与网络故障不会被当成成功。
 - **一个小彩蛋**：左上角头像每次访问随机，点击或按 Enter / Space 换一个小伙伴并播放入场效果。favicon 跟随生成静态 PNG，不逐帧刷新。不同浏览器对标签栏图标更新的时机可能不同。
 
